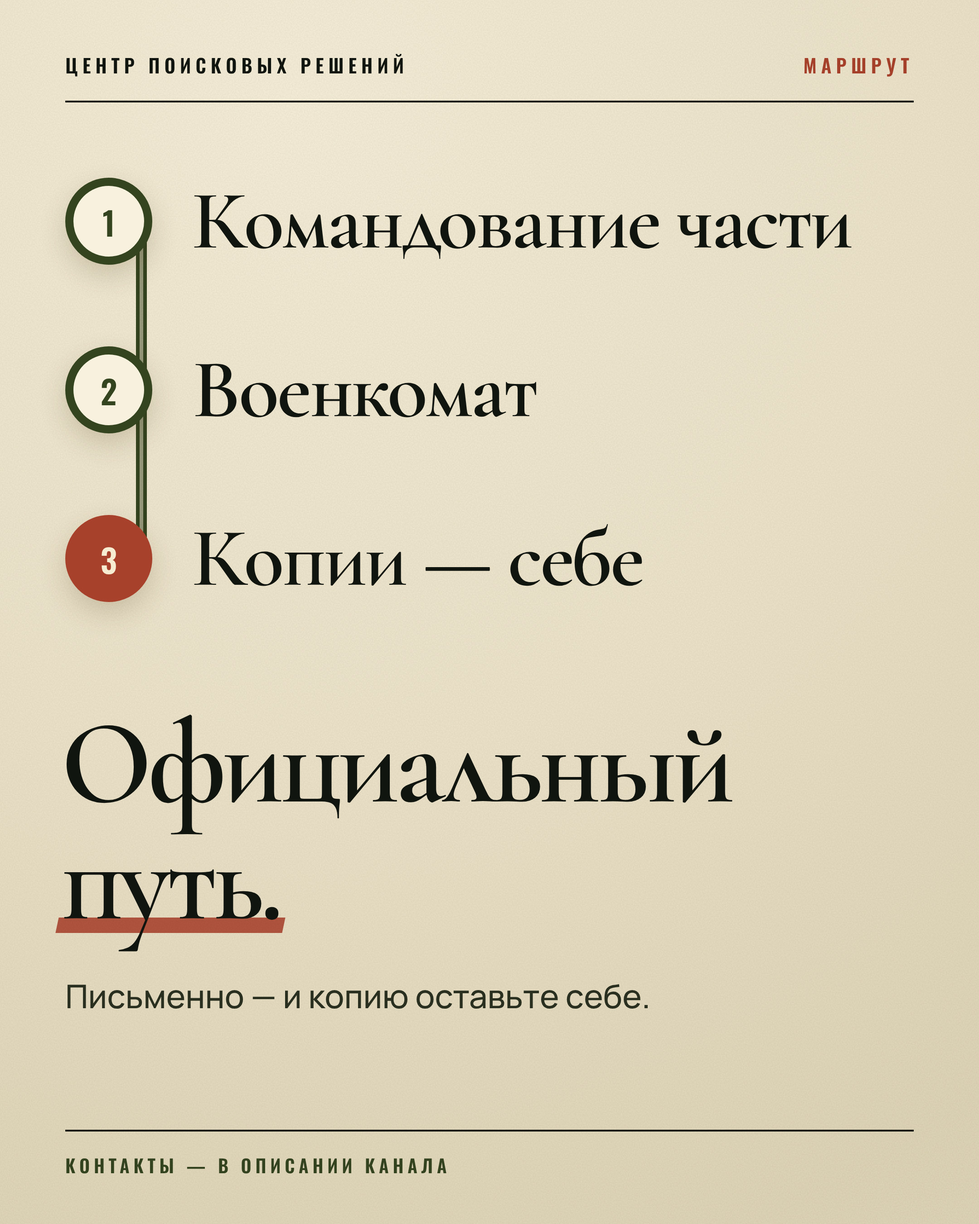
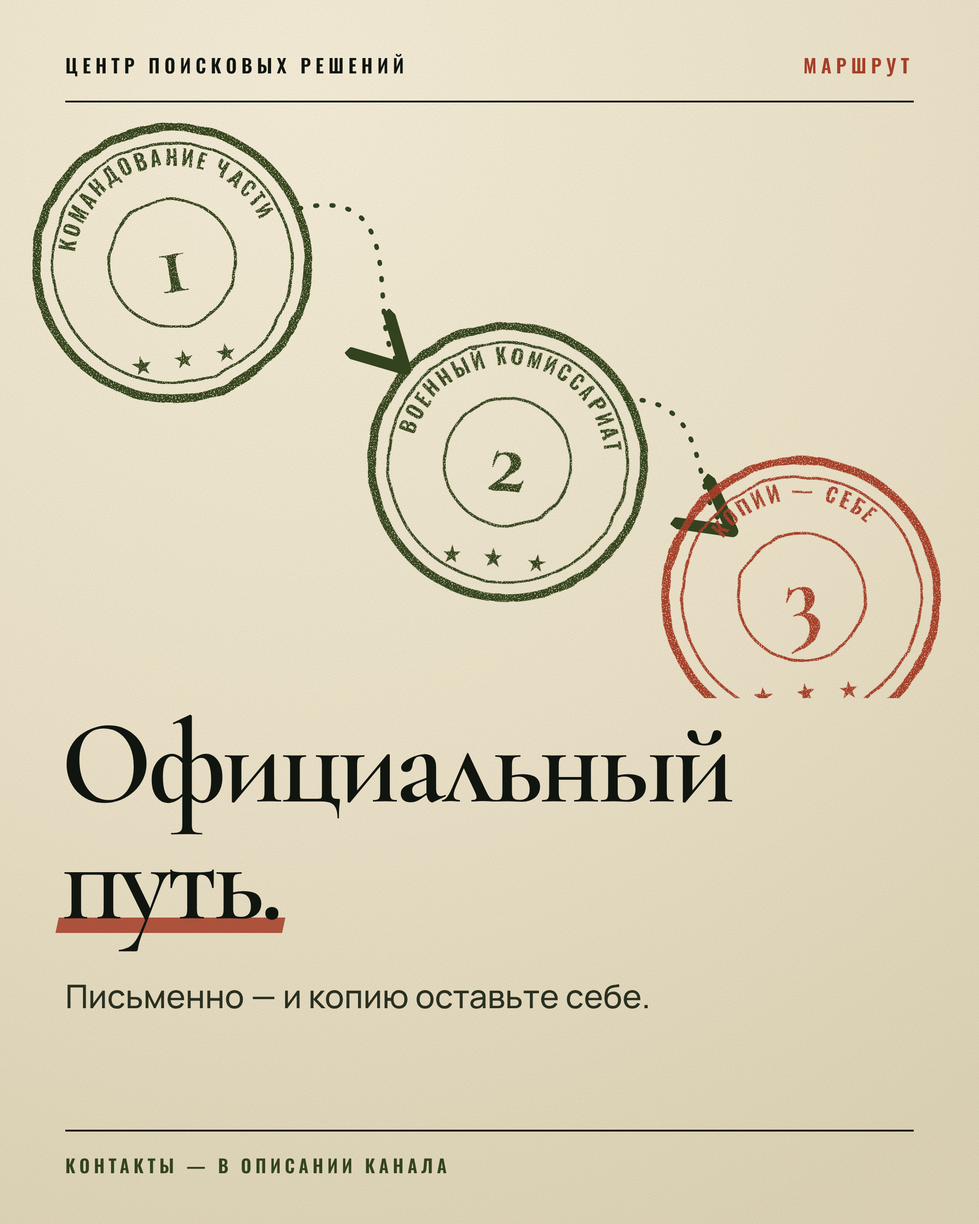
Redesign the five light-paper posts with large graphic heroes (marker loops, card fan, stamps, night facade, voice message)
Claude-Session: https://claude.ai/code/session_01NuJDMPrCwZ36H1xaabvcxP

diff --git a/psr-promo/src/paper_phone.html b/psr-promo/src/paper_phone.html
@@ -15,22 +15,21 @@ h1 u:after{content:"";position:absolute;left:-4px;right:-4px;bottom:8px;height:1
 .tex{position:absolute;inset:0;mix-blend-mode:multiply;opacity:.5;pointer-events:none}
 .card{position:absolute;background:var(--card);box-shadow:0 2px 0 rgba(255,255,255,.7) inset,0 26px 60px rgba(70,56,20,.22),0 3px 8px rgba(70,56,20,.16)}
 
-.ph{position:absolute;left:250px;top:166px;width:580px;height:640px;border:4.5px solid var(--ink);border-bottom:none;border-radius:84px 84px 0 0;background:var(--card);box-shadow:0 30px 70px rgba(70,56,20,.22);-webkit-mask:linear-gradient(180deg,#000 82%,transparent 100%);mask:linear-gradient(180deg,#000 82%,transparent 100%);padding:46px 40px}
-.ph:before{content:"";position:absolute;left:50%;top:18px;width:120px;height:14px;margin-left:-60px;border-radius:8px;background:var(--ink)}
-.who{display:flex;align-items:center;gap:20px;padding:22px 0 26px;border-bottom:2px solid rgba(17,21,15,.2);margin-top:12px}
-.av{width:64px;height:64px;border-radius:50%;border:2.5px solid var(--ink)}
-.who b{display:block;font:700 30px Manrope}.who small{display:block;font:500 23px Manrope;color:#6c6b58;margin-top:2px}
-.it{display:flex;align-items:center;gap:22px;height:92px;border-bottom:2px solid rgba(17,21,15,.14);font:700 33px Manrope}
-.it i{flex:none;width:56px;height:56px;border-radius:50%;background:var(--olive);display:grid;place-items:center}
-.it svg{width:30px;height:30px;fill:none;stroke:#f4ecd4;stroke-width:2.6;stroke-linecap:round;stroke-linejoin:round}
-.it.hl span{border:3.5px solid var(--rust);border-radius:30px;padding:0 14px;margin-left:-14px;transform:rotate(-.8deg)}
+.fan{position:absolute;left:0;top:0;width:1080px;height:780px}
+.c{position:absolute;top:196px;width:340px;height:480px;transform-origin:50% 100%;border-radius:22px;background:var(--card);box-shadow:0 2px 0 rgba(255,255,255,.8) inset,0 30px 60px rgba(70,56,20,.24),0 4px 10px rgba(70,56,20,.16);padding:30px;overflow:hidden}
+.c .t{position:absolute;left:28px;top:26px;font:600 24px Oswald;letter-spacing:.24em;color:var(--olive)}
+.c svg{width:100%;margin-top:46px}
+.c1{left:60px;top:218px;transform:rotate(-8deg)}.c2{left:267px;top:196px;transform:rotate(-2.5deg)}.c3{left:473px;top:196px;transform:rotate(2.5deg)}.c4{left:680px;top:218px;transform:rotate(8deg)}
+.tp{position:absolute;left:50%;top:178px;width:130px;height:38px;margin-left:-65px;background:rgba(214,196,142,.75);transform:rotate(-3deg);z-index:9}
 </style></head><body><div class="post" id="post">
 <div class="top"><span>ЦЕНТР ПОИСКОВЫХ РЕШЕНИЙ</span><span>ПАМЯТКА</span></div>
-<div class="ph"><div class="who"><div class="av"></div><div><b>Не в сети</b><small>был(а) давно</small></div></div>
-<div class="it hl"><i><svg viewBox="0 0 30 30"><circle cx="15" cy="15" r="10"/><path d="M15 9v7l4 3"/></svg></i><span>Последний визит</span></div>
-<div class="it"><i><svg viewBox="0 0 30 30"><rect x="11" y="4" width="8" height="14" rx="4"/><path d="M7 14a8 8 0 0 0 16 0M15 22v4"/></svg></i><span>Голосовые</span></div>
-<div class="it"><i><svg viewBox="0 0 30 30"><rect x="4" y="6" width="22" height="18" rx="3"/><circle cx="11" cy="13" r="2.4"/><path d="M5 22l7-6 5 4 4-3 5 4"/></svg></i><span>Фото и видео</span></div>
-<div class="it"><i><svg viewBox="0 0 30 30"><circle cx="11" cy="11" r="4.5"/><path d="M3 25c1-6 5-8 8-8s7 2 8 8M20 8a4 4 0 0 1 0 8M23 18c2 1 3 3 4 6"/></svg></i><span>Контакты сослуживцев</span></div></div>
+<div class="fan">
+<div class="c c1"><svg viewBox="0 0 312 380"><circle cx="156" cy="150" r="104" fill="none" stroke="#11150f" stroke-width="8"/><path d="M156 84v70l44 28" fill="none" stroke="#11150f" stroke-width="9" stroke-linecap="round"/><circle cx="156" cy="150" r="124" fill="none" stroke="#a8412b" stroke-width="5" stroke-dasharray="3 14" stroke-linecap="round"/></svg><div class="t">ВИЗИТ</div></div>
+<div class="c c2"><svg viewBox="0 0 312 380"><circle cx="64" cy="124" r="44" fill="#34441f"/><path d="M52 104l34 20-34 20z" fill="#f4ecd4"/><g id="wv"></g></svg><div class="t">ГОЛОСОВЫЕ</div></div>
+<div class="c c3"><svg viewBox="0 0 312 380"><rect x="0" y="40" width="312" height="250" rx="12" fill="#cfd9b8"/><circle cx="226" cy="108" r="26" fill="#f2c46f"/><path d="M0 290V200l70-60 60 50 60-76 122 100v76z" fill="#34441f"/></svg><div class="t">ФОТО</div></div>
+<div class="c c4"><svg viewBox="0 0 312 380"><g fill="#34441f"><circle cx="46" cy="70" r="30"/><circle cx="46" cy="160" r="30"/><circle cx="46" cy="250" r="30"/></g><g fill="#11150f"><rect x="96" y="56" width="190" height="16" rx="8"/><rect x="96" y="146" width="150" height="16" rx="8"/><rect x="96" y="236" width="176" height="16" rx="8"/></g><g fill="#a9a58a"><rect x="96" y="84" width="110" height="12" rx="6"/><rect x="96" y="174" width="90" height="12" rx="6"/><rect x="96" y="264" width="120" height="12" rx="6"/></g></svg><div class="t">КОНТАКТЫ</div></div>
+<div class="tp"></div></div>
+<script>let h="",s=11;const r=()=>((s=(s*1664525+1013904223)>>>0)/4294967296);for(let i=0;i<22;i++){const x=22+i*13.2,a=18+Math.abs(Math.sin(i*.55))*70*(.5+r()*.8);h+=`<rect x="${x}" y="${(250-a/2).toFixed(0)}" width="7" height="${a.toFixed(0)}" rx="3.5" fill="#11150f"/>`}document.getElementById("wv").innerHTML=h;</script>
 <h1><span>Следы</span><span><u>в телефоне.</u></span></h1>
 <div class="sub">Сохраните, пока ничего не удалилось.</div>
 <div class="foot">КОНТАКТЫ — В ОПИСАНИИ КАНАЛА</div><svg class="tex" width="1080" height="1350"><filter id="n"><feTurbulence type="fractalNoise" baseFrequency=".75" numOctaves="3" seed="3"/><feColorMatrix values="0 0 0 0 .55  0 0 0 0 .5  0 0 0 0 .4  0 0 0 .5 -.08"/></filter><rect width="100%" height="100%" filter="url(#n)"/></svg></div></body></html>

diff --git a/psr-promo/src/paper_route.html b/psr-promo/src/paper_route.html
@@ -15,19 +15,16 @@ h1 u:after{content:"";position:absolute;left:-4px;right:-4px;bottom:8px;height:1
 .tex{position:absolute;inset:0;mix-blend-mode:multiply;opacity:.5;pointer-events:none}
 .card{position:absolute;background:var(--card);box-shadow:0 2px 0 rgba(255,255,255,.7) inset,0 26px 60px rgba(70,56,20,.22),0 3px 8px rgba(70,56,20,.16)}
 
-.line{position:absolute;left:150px;top:246px;width:12px;height:376px;background:var(--olive);border-radius:6px}
-.line:after{content:"";position:absolute;left:4px;top:0;bottom:0;width:4px;background:var(--paper);opacity:.55}
-.st{position:absolute;left:72px;display:flex;align-items:center;gap:44px}
-.st i{flex:none;width:96px;height:96px;border-radius:50%;background:var(--card);border:9px solid var(--olive);box-shadow:0 12px 30px rgba(70,56,20,.2);display:grid;place-items:center;position:relative;z-index:2}
-.st i b{font:600 36px Oswald;color:var(--olive)}
-.st span{font:600 92px/1 'Cormorant Garamond',serif;letter-spacing:-.025em}
-.st.end i{background:var(--rust);border-color:var(--rust)}.st.end i b{color:#f6ecd2}
+svg.rt{position:absolute;left:0;top:110px;width:1080px;height:660px}
 </style></head><body><div class="post" id="post">
 <div class="top"><span>ЦЕНТР ПОИСКОВЫХ РЕШЕНИЙ</span><span>МАРШРУТ</span></div>
-<div class="line"></div>
-<div class="st" style="top:196px"><i><b>1</b></i><span>Командование части</span></div>
-<div class="st" style="top:382px"><i><b>2</b></i><span>Военкомат</span></div>
-<div class="st end" style="top:568px"><i><b>3</b></i><span>Копии — себе</span></div>
+<svg class="rt" viewBox="0 0 1080 660"><defs>
+<filter id="st" x="-10%" y="-10%" width="120%" height="120%"><feTurbulence type="fractalNoise" baseFrequency=".035" numOctaves="2" seed="2" result="w"/><feDisplacementMap in="SourceGraphic" in2="w" scale="5" result="d"/><feTurbulence type="fractalNoise" baseFrequency=".8" numOctaves="2" seed="9" result="n"/><feColorMatrix in="n" type="matrix" values="0 0 0 0 0  0 0 0 0 0  0 0 0 0 0  0 0 0 -9 6.4" result="m"/><feComposite in="d" in2="m" operator="in"/></filter>
+<marker id="ar" markerWidth="14" markerHeight="14" refX="10" refY="7" orient="auto"><path d="M1 1l11 6-11 6" fill="none" stroke="#34441f" stroke-width="2.6" stroke-linecap="round" stroke-linejoin="round"/></marker>
+<path id="c1" d="M0 0m-108 0a108 108 0 1 1 216 0"/></defs>
+<path d="M330 120C460 90 400 250 440 290" fill="none" stroke="#34441f" stroke-width="5" stroke-dasharray="2 16" stroke-linecap="round" marker-end="url(#ar)"/>
+<path d="M690 330C790 330 760 440 800 470" fill="none" stroke="#34441f" stroke-width="5" stroke-dasharray="2 16" stroke-linecap="round" marker-end="url(#ar)"/>
+<g filter="url(#st)"><g transform="translate(190 180) rotate(-9)" fill="none" stroke="#34441f"><circle r="150" stroke-width="9"/><circle r="132" stroke-width="3"/><circle r="70" stroke-width="3"/><text font-family="Oswald" font-weight="600" font-size="23" letter-spacing="3" fill="#34441f" stroke="none" text-anchor="middle"><textPath href="#c1" startOffset="50%">КОМАНДОВАНИЕ ЧАСТИ</textPath></text><text y="32" text-anchor="middle" font-family="Cormorant Garamond" font-weight="700" font-size="108" fill="#34441f" stroke="none">1</text><text y="116" text-anchor="middle" font-family="Oswald" font-size="24" letter-spacing="8" fill="#34441f" stroke="none">★ ★ ★</text></g><g transform="translate(560 400) rotate(6)" fill="none" stroke="#34441f"><circle r="150" stroke-width="9"/><circle r="132" stroke-width="3"/><circle r="70" stroke-width="3"/><text font-family="Oswald" font-weight="600" font-size="23" letter-spacing="3" fill="#34441f" stroke="none" text-anchor="middle"><textPath href="#c1" startOffset="50%">ВОЕННЫЙ КОМИССАРИАТ</textPath></text><text y="32" text-anchor="middle" font-family="Cormorant Garamond" font-weight="700" font-size="108" fill="#34441f" stroke="none">2</text><text y="116" text-anchor="middle" font-family="Oswald" font-size="24" letter-spacing="8" fill="#34441f" stroke="none">★ ★ ★</text></g><g transform="translate(884 548) rotate(-5)" fill="none" stroke="#a8412b"><circle r="150" stroke-width="9"/><circle r="132" stroke-width="3"/><circle r="70" stroke-width="3"/><text font-family="Oswald" font-weight="600" font-size="23" letter-spacing="3" fill="#a8412b" stroke="none" text-anchor="middle"><textPath href="#c1" startOffset="50%">КОПИИ — СЕБЕ</textPath></text><text y="32" text-anchor="middle" font-family="Cormorant Garamond" font-weight="700" font-size="108" fill="#a8412b" stroke="none">3</text><text y="116" text-anchor="middle" font-family="Oswald" font-size="24" letter-spacing="8" fill="#a8412b" stroke="none">★ ★ ★</text></g></g></svg>
 <h1><span>Официальный</span><span><u>путь.</u></span></h1>
 <div class="sub">Письменно — и копию оставьте себе.</div>
 <div class="foot">КОНТАКТЫ — В ОПИСАНИИ КАНАЛА</div><svg class="tex" width="1080" height="1350"><filter id="n"><feTurbulence type="fractalNoise" baseFrequency=".75" numOctaves="3" seed="3"/><feColorMatrix values="0 0 0 0 .55  0 0 0 0 .5  0 0 0 0 .4  0 0 0 .5 -.08"/></filter><rect width="100%" height="100%" filter="url(#n)"/></svg></div></body></html>

diff --git a/psr-promo/src/paper_care.html b/psr-promo/src/paper_care.html
@@ -15,26 +15,25 @@ h1 u:after{content:"";position:absolute;left:-4px;right:-4px;bottom:8px;height:1
 .tex{position:absolute;inset:0;mix-blend-mode:multiply;opacity:.5;pointer-events:none}
 .card{position:absolute;background:var(--card);box-shadow:0 2px 0 rgba(255,255,255,.7) inset,0 26px 60px rgba(70,56,20,.22),0 3px 8px rgba(70,56,20,.16)}
 
-.night{left:72px;top:168px;width:936px;height:560px;background:linear-gradient(180deg,#151b12,#0e120c);border-radius:6px;overflow:hidden;box-shadow:0 30px 70px rgba(40,36,16,.35)}
-.night svg{position:absolute;inset:0}
+.top{z-index:5;color:#e8e0c6;border-bottom-color:rgba(232,224,198,.55)}.top span:last-child{color:#f2c46f}
+svg.fc{position:absolute;left:0;top:0;width:1080px;height:790px;-webkit-mask-image:linear-gradient(180deg,#000 90%,transparent);mask-image:linear-gradient(180deg,#000 90%,transparent)}
 </style></head><body><div class="post" id="post">
 <div class="top"><span>ЦЕНТР ПОИСКОВЫХ РЕШЕНИЙ</span><span>ЗАБОТА</span></div>
-<div class="card night"><svg viewBox="0 0 936 560">
-<defs><radialGradient id="lg" cx=".5" cy=".5" r=".5"><stop offset="0" stop-color="#ffd98f" stop-opacity=".75"/><stop offset=".4" stop-color="#f2c46f" stop-opacity=".22"/><stop offset="1" stop-color="#f2c46f" stop-opacity="0"/></radialGradient>
-<linearGradient id="wl" x1="0" y1="0" x2="0" y2="1"><stop offset="0" stop-color="#fff0c4"/><stop offset="1" stop-color="#f0b45a"/></linearGradient></defs>
-<g id="w"></g>
-<circle cx="560" cy="300" r="300" fill="url(#lg)"/>
-<rect x="520" y="258" width="82" height="108" rx="3" fill="url(#wl)"/>
-<path d="M561 258v108M520 312h82" stroke="#1a1f14" stroke-width="5"/>
-<path d="M531 366c4-34 20-40 31-40" stroke="#6a4a1a" stroke-width="3" fill="none" opacity=".0"/>
-</svg></div>
-<script>
-let h='';const cols=9,rows=5,W=82,Hh=108,gx=(936-cols*W)/(cols+1),gy=(560-rows*Hh)/(rows+1);
-let s=7;const r=()=>((s=(s*1664525+1013904223)>>>0)/4294967296);
-for(let j=0;j<rows;j++)for(let i=0;i<cols;i++){const x=gx+i*(W+gx),y=gy+j*(Hh+gy);const lit=r()<.12;
- if(Math.abs(x-520)<4&&Math.abs(y-258)<4)continue;
- h+=`<rect x="${x.toFixed(0)}" y="${y.toFixed(0)}" width="${W}" height="${Hh}" rx="3" fill="${lit?'#2b2a1c':'#1b2216'}"/><path d="M${(x+W/2).toFixed(0)} ${y.toFixed(0)}v${Hh}" stroke="#0e120c" stroke-width="4"/>`;}
-document.getElementById('w').innerHTML=h;</script>
+<svg class="fc" viewBox="0 0 1080 790"><defs>
+<linearGradient id="fb" x1="0" y1="0" x2="0" y2="1"><stop offset="0" stop-color="#0d120d"/><stop offset="1" stop-color="#151c12"/></linearGradient>
+<radialGradient id="gl" cx=".5" cy=".5" r=".5"><stop offset="0" stop-color="#ffd98f" stop-opacity=".85"/><stop offset=".35" stop-color="#f2c46f" stop-opacity=".3"/><stop offset="1" stop-color="#f2c46f" stop-opacity="0"/></radialGradient>
+<linearGradient id="wl" x1="0" y1="0" x2="0" y2="1"><stop offset="0" stop-color="#fff2c8"/><stop offset="1" stop-color="#f0b45a"/></linearGradient>
+<filter id="gr"><feTurbulence type="fractalNoise" baseFrequency=".9" numOctaves="2" seed="4"/><feColorMatrix values="0 0 0 0 .5  0 0 0 0 .5  0 0 0 0 .5  0 0 0 .5 -.1"/></filter></defs>
+<rect width="1080" height="790" fill="url(#fb)"/><g id="wins"></g>
+<circle cx="745" cy="445" r="470" fill="url(#gl)" style="mix-blend-mode:screen"/>
+<g transform="translate(670 350)"><rect width="150" height="190" fill="url(#wl)"/>
+ <rect x="0" y="146" width="150" height="44" fill="#6a4410" opacity=".55"/>
+ <path d="M104 100l8-22h22l8 22z" fill="#fff6dc" opacity=".95"/><path d="M123 100v46" stroke="#3a2a10" stroke-width="4"/>
+ <path d="M46 118h36l-5 28H51z" fill="#2c2412"/><path d="M82 124c10 0 10 14 0 14" fill="none" stroke="#2c2412" stroke-width="4"/>
+ <path d="M58 106c-8-10 8-14 0-26M70 106c-8-10 8-14 0-26" fill="none" stroke="rgba(255,255,255,.7)" stroke-width="3" stroke-linecap="round"/>
+ <path d="M75 0v190M0 95h150" stroke="#161b11" stroke-width="7"/><rect width="150" height="190" fill="none" stroke="#161b11" stroke-width="9"/></g>
+<rect width="1080" height="790" filter="url(#gr)" opacity=".35"/></svg>
+<script>let h="",sd=3;const r=()=>((sd=(sd*1664525+1013904223)>>>0)/4294967296);for(let j=0;j<3;j++)for(let i=0;i<5;i++){const x=55+i*205,y=130+j*220;if(i===3&&j===1)continue;const v=r();const f=v<.1?"#2a2f22":(v<.18?"#243038":"#1b2216");h+=`<rect x="${x}" y="${y}" width="150" height="190" fill="${f}"/><path d="M${x+75} ${y}v190M${x} ${y+95}h150" stroke="#0b0f0a" stroke-width="7"/><rect x="${x}" y="${y}" width="150" height="190" fill="none" stroke="#0b0f0a" stroke-width="9"/>`}document.getElementById("wins").innerHTML=h;</script>
 <h1><span>Берегите себя,</span><span><u>пока ждёте.</u></span></h1>
 <div class="sub">Сон. Еда. Близкий человек рядом.</div>
 <div class="foot">КОНТАКТЫ — В ОПИСАНИИ КАНАЛА</div><svg class="tex" width="1080" height="1350"><filter id="n"><feTurbulence type="fractalNoise" baseFrequency=".75" numOctaves="3" seed="3"/><feColorMatrix values="0 0 0 0 .55  0 0 0 0 .5  0 0 0 0 .4  0 0 0 .5 -.08"/></filter><rect width="100%" height="100%" filter="url(#n)"/></svg></div></body></html>

diff --git a/psr-promo/src/paper_flags.html b/psr-promo/src/paper_flags.html
@@ -15,14 +15,15 @@ h1 u:after{content:"";position:absolute;left:-4px;right:-4px;bottom:8px;height:1
 .tex{position:absolute;inset:0;mix-blend-mode:multiply;opacity:.5;pointer-events:none}
 .card{position:absolute;background:var(--card);box-shadow:0 2px 0 rgba(255,255,255,.7) inset,0 26px 60px rgba(70,56,20,.22),0 3px 8px rgba(70,56,20,.16)}
 
-.msg{left:72px;top:172px;width:936px;height:540px;padding:44px 56px;transform:rotate(-1.1deg);border-radius:6px}
-.msg small{display:block;font:600 22px Oswald;letter-spacing:.22em;color:#7b7a64;margin-bottom:26px}
-.msg p{font:500 49px/1.62 Manrope;color:#1d2216}
-.m{box-decoration-break:clone;-webkit-box-decoration-break:clone;border:3.5px solid var(--rust);border-radius:34px;padding:2px 14px;margin:0 -6px;transform:rotate(-.8deg);display:inline;color:#12160f;font-weight:700}
-.msg:before{content:"";position:absolute;left:50%;top:-18px;width:130px;height:38px;margin-left:-65px;background:rgba(214,196,142,.7);transform:rotate(-2deg)}
+.msg{left:60px;top:150px;width:960px;height:590px;padding:48px 60px;transform:rotate(-1.2deg);border-radius:4px}
+.msg small{display:block;font:600 22px Oswald;letter-spacing:.24em;color:#7b7a64;margin-bottom:22px}
+.msg p{font:500 58px/1.56 Manrope;color:#1d2216;letter-spacing:-.01em}
+.m{font-weight:800;color:#0f130c}
+.msg:before{content:"";position:absolute;left:50%;top:-20px;width:140px;height:40px;margin-left:-70px;background:rgba(214,196,142,.72);transform:rotate(-2deg)}
+svg.mk{position:absolute;inset:0;pointer-events:none;overflow:visible}
 </style></head><body><div class="post" id="post">
 <div class="top"><span>ЦЕНТР ПОИСКОВЫХ РЕШЕНИЙ</span><span>ВНИМАНИЕ</span></div>
-<div class="card msg"><small>НЕЗНАКОМЫЙ НОМЕР</small><p>Здравствуйте! Мы <span class="m">гарантированно найдём</span> вашего бойца. Решать нужно <span class="m">срочно, сегодня</span>. У нас <span class="m">закрытый доступ</span> к данным.</p></div>
+<div class="card msg" id="note"><small>НЕЗНАКОМЫЙ НОМЕР</small><p>Здравствуйте! Мы <span class="m">гарантированно найдём</span> вашего бойца. Решать нужно <span class="m">срочно, сегодня</span>. У нас <span class="m">закрытый доступ</span> к данным.</p></div><svg class="mk" id="mk" width="1080" height="1350"></svg><script>document.fonts.ready.then(()=>{let s=5;const r=()=>((s=(s*1664525+1013904223)>>>0)/4294967296);const note=document.getElementById("note");let out="";let n=0;document.querySelectorAll(".m").forEach(sp=>{n++;[...sp.getClientRects()].forEach((q,i)=>{const pad=14,cx=q.left+q.width/2,cy=q.top+q.height/2,rx=q.width/2+pad+8,ry=q.height/2+5;let d="";const N=36,rot=(r()-.5)*.05;for(let k=0;k<=N+4;k++){const t=k/N*Math.PI*2+Math.PI*1.15,j=1+Math.sin(k*.7)*.012+(r()-.5)*.012,gr=1+0.045*(k/N);const x=cx+Math.cos(t)*rx*j*gr,y=cy+Math.sin(t)*ry*j*gr+rot*(x-cx);d+=(k?"L":"M")+x.toFixed(1)+" "+y.toFixed(1)}out+=`<path d="${d}" fill="none" stroke="#a8412b" stroke-width="5.5" stroke-linecap="round" stroke-linejoin="round" opacity=".92"/>`;})});document.getElementById("mk").innerHTML=out;});</script>
 <h1><span>Три тревожных</span><span><u>знака.</u></span></h1>
 <div class="sub">Честная помощь так не говорит.</div>
 <div class="foot">КОНТАКТЫ — В ОПИСАНИИ КАНАЛА</div><svg class="tex" width="1080" height="1350"><filter id="n"><feTurbulence type="fractalNoise" baseFrequency=".75" numOctaves="3" seed="3"/><feColorMatrix values="0 0 0 0 .55  0 0 0 0 .5  0 0 0 0 .4  0 0 0 .5 -.08"/></filter><rect width="100%" height="100%" filter="url(#n)"/></svg></div></body></html>

diff --git a/psr-promo/src/paper_listen.html b/psr-promo/src/paper_listen.html
@@ -15,15 +15,17 @@ h1 u:after{content:"";position:absolute;left:-4px;right:-4px;bottom:8px;height:1
 .tex{position:absolute;inset:0;mix-blend-mode:multiply;opacity:.5;pointer-events:none}
 .card{position:absolute;background:var(--card);box-shadow:0 2px 0 rgba(255,255,255,.7) inset,0 26px 60px rgba(70,56,20,.22),0 3px 8px rgba(70,56,20,.16)}
 
-.b{position:absolute;padding:34px 44px;font:500 52px/1.3 Manrope;border-radius:38px}
-.b1{right:72px;top:176px;width:690px;background:linear-gradient(160deg,#4d6b38,#34441f);color:#f6efd8;border-bottom-right-radius:8px;box-shadow:0 24px 50px rgba(52,68,31,.35)}
-.b2{left:72px;top:420px;width:760px;background:var(--card);border:3px solid var(--ink);border-bottom-left-radius:8px;box-shadow:0 24px 50px rgba(70,56,20,.18)}
-.b2 b{font-weight:800}
-.dots{position:absolute;left:72px;top:716px;display:flex;gap:12px;padding:20px 28px;border-radius:30px;border-bottom-left-radius:8px;background:rgba(17,21,15,.07)}
-.dots i{width:14px;height:14px;border-radius:50%;background:var(--ink);opacity:.5}.dots i:nth-child(2){opacity:.75}.dots i:nth-child(3){opacity:1}
+.v{left:72px;right:72px;top:184px;height:300px;border-radius:52px 52px 12px 52px;background:linear-gradient(160deg,#587a41,#34441f);box-shadow:0 30px 60px rgba(52,68,31,.38);display:flex;align-items:center;gap:36px;padding:0 52px}
+.pl{flex:none;width:136px;height:136px;border-radius:50%;background:#f4ecd4;display:grid;place-items:center}
+.pl svg{width:56px;height:56px;margin-left:8px}
+.wf{flex:1;height:170px}
+.du{flex:none;font:600 44px Oswald;letter-spacing:.08em;color:#f4ecd4}
+.rp{left:72px;top:540px;padding:34px 52px;border-radius:44px 44px 44px 12px;background:var(--card);border:3px solid var(--ink);font:800 66px/1.1 Manrope;letter-spacing:-.02em;box-shadow:0 26px 54px rgba(70,56,20,.18)}
 </style></head><body><div class="post" id="post">
 <div class="top"><span>ЦЕНТР ПОИСКОВЫХ РЕШЕНИЙ</span><span>ДИАЛОГ</span></div>
-<div class="b b1">Мы не знаем, с чего начать…</div><div class="b b2"><b>Расскажите, что известно.</b> Остальное — вместе.</div><div class="dots"><i></i><i></i><i></i></div>
+<div class="v card"><div class="pl"><svg viewBox="0 0 56 56"><path d="M8 4l44 24L8 52z" fill="#34441f"/></svg></div><svg class="wf" id="wf" viewBox="0 0 520 170"></svg><div class="du">2:14</div></div>
+<div class="rp card">Мы слушаем.</div>
+<script>let h="",s=17;const r=()=>((s=(s*1664525+1013904223)>>>0)/4294967296);for(let i=0;i<34;i++){const e=Math.sin(i/33*Math.PI)*.65+.35,a=18+e*130*(.35+r()*.65);h+=`<rect x="${i*15.5}" y="${(85-a/2).toFixed(0)}" width="9" height="${a.toFixed(0)}" rx="4.5" fill="${i<20?'#f4ecd4':'rgba(244,236,212,.4)'}"/>`}document.getElementById("wf").innerHTML=h;</script>
 <h1><span>Сначала —</span><span><u>выслушаем.</u></span></h1>
 <div class="sub">Расскажите то, что знаете.</div>
 <div class="foot">КОНТАКТЫ — В ОПИСАНИИ КАНАЛА</div><svg class="tex" width="1080" height="1350"><filter id="n"><feTurbulence type="fractalNoise" baseFrequency=".75" numOctaves="3" seed="3"/><feColorMatrix values="0 0 0 0 .55  0 0 0 0 .5  0 0 0 0 .4  0 0 0 .5 -.08"/></filter><rect width="100%" height="100%" filter="url(#n)"/></svg></div></body></html>

diff --git a/psr-promo/tools/make_papers.py b/psr-promo/tools/make_papers.py
@@ -29,84 +29,86 @@ def page(name,tag,extra_css,hero,l1,l2,sub):
 <div class="foot">КОНТАКТЫ — В ОПИСАНИИ КАНАЛА</div>{TEX}</div></body></html>"""
     open(f"{ROOT}/src/paper_{name}.html","w").write(html)
 
-# 1 — red flags: a scam message with three marked phrases
+
+# 1 — red flags: huge note, hand-drawn marker loops measured from the real text lines
+FLAGS_JS = """document.fonts.ready.then(()=>{let s=5;const r=()=>((s=(s*1664525+1013904223)>>>0)/4294967296);const note=document.getElementById("note");let out="";let n=0;document.querySelectorAll(".m").forEach(sp=>{n++;[...sp.getClientRects()].forEach((q,i)=>{const pad=14,cx=q.left+q.width/2,cy=q.top+q.height/2,rx=q.width/2+pad+8,ry=q.height/2+5;let d="";const N=36,rot=(r()-.5)*.05;for(let k=0;k<=N+4;k++){const t=k/N*Math.PI*2+Math.PI*1.15,j=1+Math.sin(k*.7)*.012+(r()-.5)*.012,gr=1+0.045*(k/N);const x=cx+Math.cos(t)*rx*j*gr,y=cy+Math.sin(t)*ry*j*gr+rot*(x-cx);d+=(k?"L":"M")+x.toFixed(1)+" "+y.toFixed(1)}out+=`<path d="${d}" fill="none" stroke="#a8412b" stroke-width="5.5" stroke-linecap="round" stroke-linejoin="round" opacity=".92"/>`;})});document.getElementById("mk").innerHTML=out;});"""
 page("flags","ВНИМАНИЕ","""
-.msg{left:72px;top:172px;width:936px;height:540px;padding:44px 56px;transform:rotate(-1.1deg);border-radius:6px}
-.msg small{display:block;font:600 22px Oswald;letter-spacing:.22em;color:#7b7a64;margin-bottom:26px}
-.msg p{font:500 49px/1.62 Manrope;color:#1d2216}
-.m{box-decoration-break:clone;-webkit-box-decoration-break:clone;border:3.5px solid var(--rust);border-radius:34px;padding:2px 14px;margin:0 -6px;transform:rotate(-.8deg);display:inline;color:#12160f;font-weight:700}
-.msg:before{content:"";position:absolute;left:50%;top:-18px;width:130px;height:38px;margin-left:-65px;background:rgba(214,196,142,.7);transform:rotate(-2deg)}
+.msg{left:60px;top:150px;width:960px;height:590px;padding:48px 60px;transform:rotate(-1.2deg);border-radius:4px}
+.msg small{display:block;font:600 22px Oswald;letter-spacing:.24em;color:#7b7a64;margin-bottom:22px}
+.msg p{font:500 58px/1.56 Manrope;color:#1d2216;letter-spacing:-.01em}
+.m{font-weight:800;color:#0f130c}
+.msg:before{content:"";position:absolute;left:50%;top:-20px;width:140px;height:40px;margin-left:-70px;background:rgba(214,196,142,.72);transform:rotate(-2deg)}
+svg.mk{position:absolute;inset:0;pointer-events:none;overflow:visible}
 """,
-'<div class="card msg"><small>НЕЗНАКОМЫЙ НОМЕР</small><p>Здравствуйте! Мы <span class="m">гарантированно найдём</span> вашего бойца. Решать нужно <span class="m">срочно, сегодня</span>. У нас <span class="m">закрытый доступ</span> к данным.</p></div>',
+'<div class="card msg" id="note"><small>НЕЗНАКОМЫЙ НОМЕР</small><p>Здравствуйте! Мы <span class="m">гарантированно найдём</span> вашего бойца. Решать нужно <span class="m">срочно, сегодня</span>. У нас <span class="m">закрытый доступ</span> к данным.</p></div><svg class="mk" id="mk" width="1080" height="1350"></svg><script>'+FLAGS_JS+'</script>',
 "Три тревожных","знака.","Честная помощь так не говорит.")
 
-# 2 — traces in the phone
+# 2 — traces: a fan of evidence cards
 page("phone","ПАМЯТКА","""
-.ph{position:absolute;left:250px;top:166px;width:580px;height:640px;border:4.5px solid var(--ink);border-bottom:none;border-radius:84px 84px 0 0;background:var(--card);box-shadow:0 30px 70px rgba(70,56,20,.22);-webkit-mask:linear-gradient(180deg,#000 82%,transparent 100%);mask:linear-gradient(180deg,#000 82%,transparent 100%);padding:46px 40px}
-.ph:before{content:"";position:absolute;left:50%;top:18px;width:120px;height:14px;margin-left:-60px;border-radius:8px;background:var(--ink)}
-.who{display:flex;align-items:center;gap:20px;padding:22px 0 26px;border-bottom:2px solid rgba(17,21,15,.2);margin-top:12px}
-.av{width:64px;height:64px;border-radius:50%;border:2.5px solid var(--ink)}
-.who b{display:block;font:700 30px Manrope}.who small{display:block;font:500 23px Manrope;color:#6c6b58;margin-top:2px}
-.it{display:flex;align-items:center;gap:22px;height:92px;border-bottom:2px solid rgba(17,21,15,.14);font:700 33px Manrope}
-.it i{flex:none;width:56px;height:56px;border-radius:50%;background:var(--olive);display:grid;place-items:center}
-.it svg{width:30px;height:30px;fill:none;stroke:#f4ecd4;stroke-width:2.6;stroke-linecap:round;stroke-linejoin:round}
-.it.hl span{border:3.5px solid var(--rust);border-radius:30px;padding:0 14px;margin-left:-14px;transform:rotate(-.8deg)}
+.fan{position:absolute;left:0;top:0;width:1080px;height:780px}
+.c{position:absolute;top:196px;width:340px;height:480px;transform-origin:50% 100%;border-radius:22px;background:var(--card);box-shadow:0 2px 0 rgba(255,255,255,.8) inset,0 30px 60px rgba(70,56,20,.24),0 4px 10px rgba(70,56,20,.16);padding:30px;overflow:hidden}
+.c .t{position:absolute;left:28px;top:26px;font:600 24px Oswald;letter-spacing:.24em;color:var(--olive)}
+.c svg{width:100%;margin-top:46px}
+.c1{left:60px;top:218px;transform:rotate(-8deg)}.c2{left:267px;top:196px;transform:rotate(-2.5deg)}.c3{left:473px;top:196px;transform:rotate(2.5deg)}.c4{left:680px;top:218px;transform:rotate(8deg)}
+.tp{position:absolute;left:50%;top:178px;width:130px;height:38px;margin-left:-65px;background:rgba(214,196,142,.75);transform:rotate(-3deg);z-index:9}
 """,
-'''<div class="ph"><div class="who"><div class="av"></div><div><b>Не в сети</b><small>был(а) давно</small></div></div>
-<div class="it hl"><i><svg viewBox="0 0 30 30"><circle cx="15" cy="15" r="10"/><path d="M15 9v7l4 3"/></svg></i><span>Последний визит</span></div>
-<div class="it"><i><svg viewBox="0 0 30 30"><rect x="11" y="4" width="8" height="14" rx="4"/><path d="M7 14a8 8 0 0 0 16 0M15 22v4"/></svg></i><span>Голосовые</span></div>
-<div class="it"><i><svg viewBox="0 0 30 30"><rect x="4" y="6" width="22" height="18" rx="3"/><circle cx="11" cy="13" r="2.4"/><path d="M5 22l7-6 5 4 4-3 5 4"/></svg></i><span>Фото и видео</span></div>
-<div class="it"><i><svg viewBox="0 0 30 30"><circle cx="11" cy="11" r="4.5"/><path d="M3 25c1-6 5-8 8-8s7 2 8 8M20 8a4 4 0 0 1 0 8M23 18c2 1 3 3 4 6"/></svg></i><span>Контакты сослуживцев</span></div></div>''',
+'''<div class="fan">
+<div class="c c1"><svg viewBox="0 0 312 380"><circle cx="156" cy="150" r="104" fill="none" stroke="#11150f" stroke-width="8"/><path d="M156 84v70l44 28" fill="none" stroke="#11150f" stroke-width="9" stroke-linecap="round"/><circle cx="156" cy="150" r="124" fill="none" stroke="#a8412b" stroke-width="5" stroke-dasharray="3 14" stroke-linecap="round"/></svg><div class="t">ВИЗИТ</div></div>
+<div class="c c2"><svg viewBox="0 0 312 380"><circle cx="64" cy="124" r="44" fill="#34441f"/><path d="M52 104l34 20-34 20z" fill="#f4ecd4"/><g id="wv"></g></svg><div class="t">ГОЛОСОВЫЕ</div></div>
+<div class="c c3"><svg viewBox="0 0 312 380"><rect x="0" y="40" width="312" height="250" rx="12" fill="#cfd9b8"/><circle cx="226" cy="108" r="26" fill="#f2c46f"/><path d="M0 290V200l70-60 60 50 60-76 122 100v76z" fill="#34441f"/></svg><div class="t">ФОТО</div></div>
+<div class="c c4"><svg viewBox="0 0 312 380"><g fill="#34441f"><circle cx="46" cy="70" r="30"/><circle cx="46" cy="160" r="30"/><circle cx="46" cy="250" r="30"/></g><g fill="#11150f"><rect x="96" y="56" width="190" height="16" rx="8"/><rect x="96" y="146" width="150" height="16" rx="8"/><rect x="96" y="236" width="176" height="16" rx="8"/></g><g fill="#a9a58a"><rect x="96" y="84" width="110" height="12" rx="6"/><rect x="96" y="174" width="90" height="12" rx="6"/><rect x="96" y="264" width="120" height="12" rx="6"/></g></svg><div class="t">КОНТАКТЫ</div></div>
+<div class="tp"></div></div>
+<script>let h="",s=11;const r=()=>((s=(s*1664525+1013904223)>>>0)/4294967296);for(let i=0;i<22;i++){const x=22+i*13.2,a=18+Math.abs(Math.sin(i*.55))*70*(.5+r()*.8);h+=`<rect x="${x}" y="${(250-a/2).toFixed(0)}" width="7" height="${a.toFixed(0)}" rx="3.5" fill="#11150f"/>`}document.getElementById("wv").innerHTML=h;</script>''',
 "Следы","в телефоне.","Сохраните, пока ничего не удалилось.")
 
-# 3 — official route (metro-style)
+# 3 — route: three big rubber stamps joined by a dashed path
+def stamp(x,y,rot,col,txt,num):
+    return f'''<g transform="translate({x} {y}) rotate({rot})" fill="none" stroke="{col}"><circle r="150" stroke-width="9"/><circle r="132" stroke-width="3"/><circle r="70" stroke-width="3"/><text font-family="Oswald" font-weight="600" font-size="23" letter-spacing="3" fill="{col}" stroke="none" text-anchor="middle"><textPath href="#c1" startOffset="50%">{txt}</textPath></text><text y="32" text-anchor="middle" font-family="Cormorant Garamond" font-weight="700" font-size="108" fill="{col}" stroke="none">{num}</text><text y="116" text-anchor="middle" font-family="Oswald" font-size="24" letter-spacing="8" fill="{col}" stroke="none">★ ★ ★</text></g>'''
 page("route","МАРШРУТ","""
-.line{position:absolute;left:150px;top:246px;width:12px;height:376px;background:var(--olive);border-radius:6px}
-.line:after{content:"";position:absolute;left:4px;top:0;bottom:0;width:4px;background:var(--paper);opacity:.55}
-.st{position:absolute;left:72px;display:flex;align-items:center;gap:44px}
-.st i{flex:none;width:96px;height:96px;border-radius:50%;background:var(--card);border:9px solid var(--olive);box-shadow:0 12px 30px rgba(70,56,20,.2);display:grid;place-items:center;position:relative;z-index:2}
-.st i b{font:600 36px Oswald;color:var(--olive)}
-.st span{font:600 92px/1 'Cormorant Garamond',serif;letter-spacing:-.025em}
-.st.end i{background:var(--rust);border-color:var(--rust)}.st.end i b{color:#f6ecd2}
+svg.rt{position:absolute;left:0;top:110px;width:1080px;height:660px}
 """,
-'''<div class="line"></div>
-<div class="st" style="top:196px"><i><b>1</b></i><span>Командование части</span></div>
-<div class="st" style="top:382px"><i><b>2</b></i><span>Военкомат</span></div>
-<div class="st end" style="top:568px"><i><b>3</b></i><span>Копии — себе</span></div>''',
+'''<svg class="rt" viewBox="0 0 1080 660"><defs>
+<filter id="st" x="-10%" y="-10%" width="120%" height="120%"><feTurbulence type="fractalNoise" baseFrequency=".035" numOctaves="2" seed="2" result="w"/><feDisplacementMap in="SourceGraphic" in2="w" scale="5" result="d"/><feTurbulence type="fractalNoise" baseFrequency=".8" numOctaves="2" seed="9" result="n"/><feColorMatrix in="n" type="matrix" values="0 0 0 0 0  0 0 0 0 0  0 0 0 0 0  0 0 0 -9 6.4" result="m"/><feComposite in="d" in2="m" operator="in"/></filter>
+<marker id="ar" markerWidth="14" markerHeight="14" refX="10" refY="7" orient="auto"><path d="M1 1l11 6-11 6" fill="none" stroke="#34441f" stroke-width="2.6" stroke-linecap="round" stroke-linejoin="round"/></marker>
+<path id="c1" d="M0 0m-108 0a108 108 0 1 1 216 0"/></defs>
+<path d="M330 120C460 90 400 250 440 290" fill="none" stroke="#34441f" stroke-width="5" stroke-dasharray="2 16" stroke-linecap="round" marker-end="url(#ar)"/>
+<path d="M690 330C790 330 760 440 800 470" fill="none" stroke="#34441f" stroke-width="5" stroke-dasharray="2 16" stroke-linecap="round" marker-end="url(#ar)"/>
+<g filter="url(#st)">'''+stamp(190,180,-9,"#34441f","КОМАНДОВАНИЕ ЧАСТИ",1)+stamp(560,400,6,"#34441f","ВОЕННЫЙ КОМИССАРИАТ",2)+stamp(884,548,-5,"#a8412b","КОПИИ — СЕБЕ",3)+'''</g></svg>''',
 "Официальный","путь.","Письменно — и копию оставьте себе.")
 
-# 4 — care: one lit window in the night
+# 4 — care: a night facade, one lit window
 page("care","ЗАБОТА","""
-.night{left:72px;top:168px;width:936px;height:560px;background:linear-gradient(180deg,#151b12,#0e120c);border-radius:6px;overflow:hidden;box-shadow:0 30px 70px rgba(40,36,16,.35)}
-.night svg{position:absolute;inset:0}
+.top{z-index:5;color:#e8e0c6;border-bottom-color:rgba(232,224,198,.55)}.top span:last-child{color:#f2c46f}
+svg.fc{position:absolute;left:0;top:0;width:1080px;height:790px;-webkit-mask-image:linear-gradient(180deg,#000 90%,transparent);mask-image:linear-gradient(180deg,#000 90%,transparent)}
 """,
-'''<div class="card night"><svg viewBox="0 0 936 560">
-<defs><radialGradient id="lg" cx=".5" cy=".5" r=".5"><stop offset="0" stop-color="#ffd98f" stop-opacity=".75"/><stop offset=".4" stop-color="#f2c46f" stop-opacity=".22"/><stop offset="1" stop-color="#f2c46f" stop-opacity="0"/></radialGradient>
-<linearGradient id="wl" x1="0" y1="0" x2="0" y2="1"><stop offset="0" stop-color="#fff0c4"/><stop offset="1" stop-color="#f0b45a"/></linearGradient></defs>
-<g id="w"></g>
-<circle cx="560" cy="300" r="300" fill="url(#lg)"/>
-<rect x="520" y="258" width="82" height="108" rx="3" fill="url(#wl)"/>
-<path d="M561 258v108M520 312h82" stroke="#1a1f14" stroke-width="5"/>
-<path d="M531 366c4-34 20-40 31-40" stroke="#6a4a1a" stroke-width="3" fill="none" opacity=".0"/>
-</svg></div>
-<script>
-let h='';const cols=9,rows=5,W=82,Hh=108,gx=(936-cols*W)/(cols+1),gy=(560-rows*Hh)/(rows+1);
-let s=7;const r=()=>((s=(s*1664525+1013904223)>>>0)/4294967296);
-for(let j=0;j<rows;j++)for(let i=0;i<cols;i++){const x=gx+i*(W+gx),y=gy+j*(Hh+gy);const lit=r()<.12;
- if(Math.abs(x-520)<4&&Math.abs(y-258)<4)continue;
- h+=`<rect x="${x.toFixed(0)}" y="${y.toFixed(0)}" width="${W}" height="${Hh}" rx="3" fill="${lit?'#2b2a1c':'#1b2216'}"/><path d="M${(x+W/2).toFixed(0)} ${y.toFixed(0)}v${Hh}" stroke="#0e120c" stroke-width="4"/>`;}
-document.getElementById('w').innerHTML=h;</script>''',
+'''<svg class="fc" viewBox="0 0 1080 790"><defs>
+<linearGradient id="fb" x1="0" y1="0" x2="0" y2="1"><stop offset="0" stop-color="#0d120d"/><stop offset="1" stop-color="#151c12"/></linearGradient>
+<radialGradient id="gl" cx=".5" cy=".5" r=".5"><stop offset="0" stop-color="#ffd98f" stop-opacity=".85"/><stop offset=".35" stop-color="#f2c46f" stop-opacity=".3"/><stop offset="1" stop-color="#f2c46f" stop-opacity="0"/></radialGradient>
+<linearGradient id="wl" x1="0" y1="0" x2="0" y2="1"><stop offset="0" stop-color="#fff2c8"/><stop offset="1" stop-color="#f0b45a"/></linearGradient>
+<filter id="gr"><feTurbulence type="fractalNoise" baseFrequency=".9" numOctaves="2" seed="4"/><feColorMatrix values="0 0 0 0 .5  0 0 0 0 .5  0 0 0 0 .5  0 0 0 .5 -.1"/></filter></defs>
+<rect width="1080" height="790" fill="url(#fb)"/><g id="wins"></g>
+<circle cx="745" cy="445" r="470" fill="url(#gl)" style="mix-blend-mode:screen"/>
+<g transform="translate(670 350)"><rect width="150" height="190" fill="url(#wl)"/>
+ <rect x="0" y="146" width="150" height="44" fill="#6a4410" opacity=".55"/>
+ <path d="M104 100l8-22h22l8 22z" fill="#fff6dc" opacity=".95"/><path d="M123 100v46" stroke="#3a2a10" stroke-width="4"/>
+ <path d="M46 118h36l-5 28H51z" fill="#2c2412"/><path d="M82 124c10 0 10 14 0 14" fill="none" stroke="#2c2412" stroke-width="4"/>
+ <path d="M58 106c-8-10 8-14 0-26M70 106c-8-10 8-14 0-26" fill="none" stroke="rgba(255,255,255,.7)" stroke-width="3" stroke-linecap="round"/>
+ <path d="M75 0v190M0 95h150" stroke="#161b11" stroke-width="7"/><rect width="150" height="190" fill="none" stroke="#161b11" stroke-width="9"/></g>
+<rect width="1080" height="790" filter="url(#gr)" opacity=".35"/></svg>
+<script>let h="",sd=3;const r=()=>((sd=(sd*1664525+1013904223)>>>0)/4294967296);for(let j=0;j<3;j++)for(let i=0;i<5;i++){const x=55+i*205,y=130+j*220;if(i===3&&j===1)continue;const v=r();const f=v<.1?"#2a2f22":(v<.18?"#243038":"#1b2216");h+=`<rect x="${x}" y="${y}" width="150" height="190" fill="${f}"/><path d="M${x+75} ${y}v190M${x} ${y+95}h150" stroke="#0b0f0a" stroke-width="7"/><rect x="${x}" y="${y}" width="150" height="190" fill="none" stroke="#0b0f0a" stroke-width="9"/>`}document.getElementById("wins").innerHTML=h;</script>''',
 "Берегите себя,","пока ждёте.","Сон. Еда. Близкий человек рядом.")
 
-# 5 — first conversation
+# 5 — listen: a huge voice message and a calm reply
 page("listen","ДИАЛОГ","""
-.b{position:absolute;padding:34px 44px;font:500 52px/1.3 Manrope;border-radius:38px}
-.b1{right:72px;top:176px;width:690px;background:linear-gradient(160deg,#4d6b38,#34441f);color:#f6efd8;border-bottom-right-radius:8px;box-shadow:0 24px 50px rgba(52,68,31,.35)}
-.b2{left:72px;top:420px;width:760px;background:var(--card);border:3px solid var(--ink);border-bottom-left-radius:8px;box-shadow:0 24px 50px rgba(70,56,20,.18)}
-.b2 b{font-weight:800}
-.dots{position:absolute;left:72px;top:716px;display:flex;gap:12px;padding:20px 28px;border-radius:30px;border-bottom-left-radius:8px;background:rgba(17,21,15,.07)}
-.dots i{width:14px;height:14px;border-radius:50%;background:var(--ink);opacity:.5}.dots i:nth-child(2){opacity:.75}.dots i:nth-child(3){opacity:1}
+.v{left:72px;right:72px;top:184px;height:300px;border-radius:52px 52px 12px 52px;background:linear-gradient(160deg,#587a41,#34441f);box-shadow:0 30px 60px rgba(52,68,31,.38);display:flex;align-items:center;gap:36px;padding:0 52px}
+.pl{flex:none;width:136px;height:136px;border-radius:50%;background:#f4ecd4;display:grid;place-items:center}
+.pl svg{width:56px;height:56px;margin-left:8px}
+.wf{flex:1;height:170px}
+.du{flex:none;font:600 44px Oswald;letter-spacing:.08em;color:#f4ecd4}
+.rp{left:72px;top:540px;padding:34px 52px;border-radius:44px 44px 44px 12px;background:var(--card);border:3px solid var(--ink);font:800 66px/1.1 Manrope;letter-spacing:-.02em;box-shadow:0 26px 54px rgba(70,56,20,.18)}
 """,
-'<div class="b b1">Мы не знаем, с чего начать…</div><div class="b b2"><b>Расскажите, что известно.</b> Остальное — вместе.</div><div class="dots"><i></i><i></i><i></i></div>',
+'''<div class="v card"><div class="pl"><svg viewBox="0 0 56 56"><path d="M8 4l44 24L8 52z" fill="#34441f"/></svg></div><svg class="wf" id="wf" viewBox="0 0 520 170"></svg><div class="du">2:14</div></div>
+<div class="rp card">Мы слушаем.</div>
+<script>let h="",s=17;const r=()=>((s=(s*1664525+1013904223)>>>0)/4294967296);for(let i=0;i<34;i++){const e=Math.sin(i/33*Math.PI)*.65+.35,a=18+e*130*(.35+r()*.65);h+=`<rect x="${i*15.5}" y="${(85-a/2).toFixed(0)}" width="9" height="${a.toFixed(0)}" rx="4.5" fill="${i<20?'#f4ecd4':'rgba(244,236,212,.4)'}"/>`}document.getElementById("wf").innerHTML=h;</script>''',
 "Сначала —","выслушаем.","Расскажите то, что знаете.")
 print("ok")
